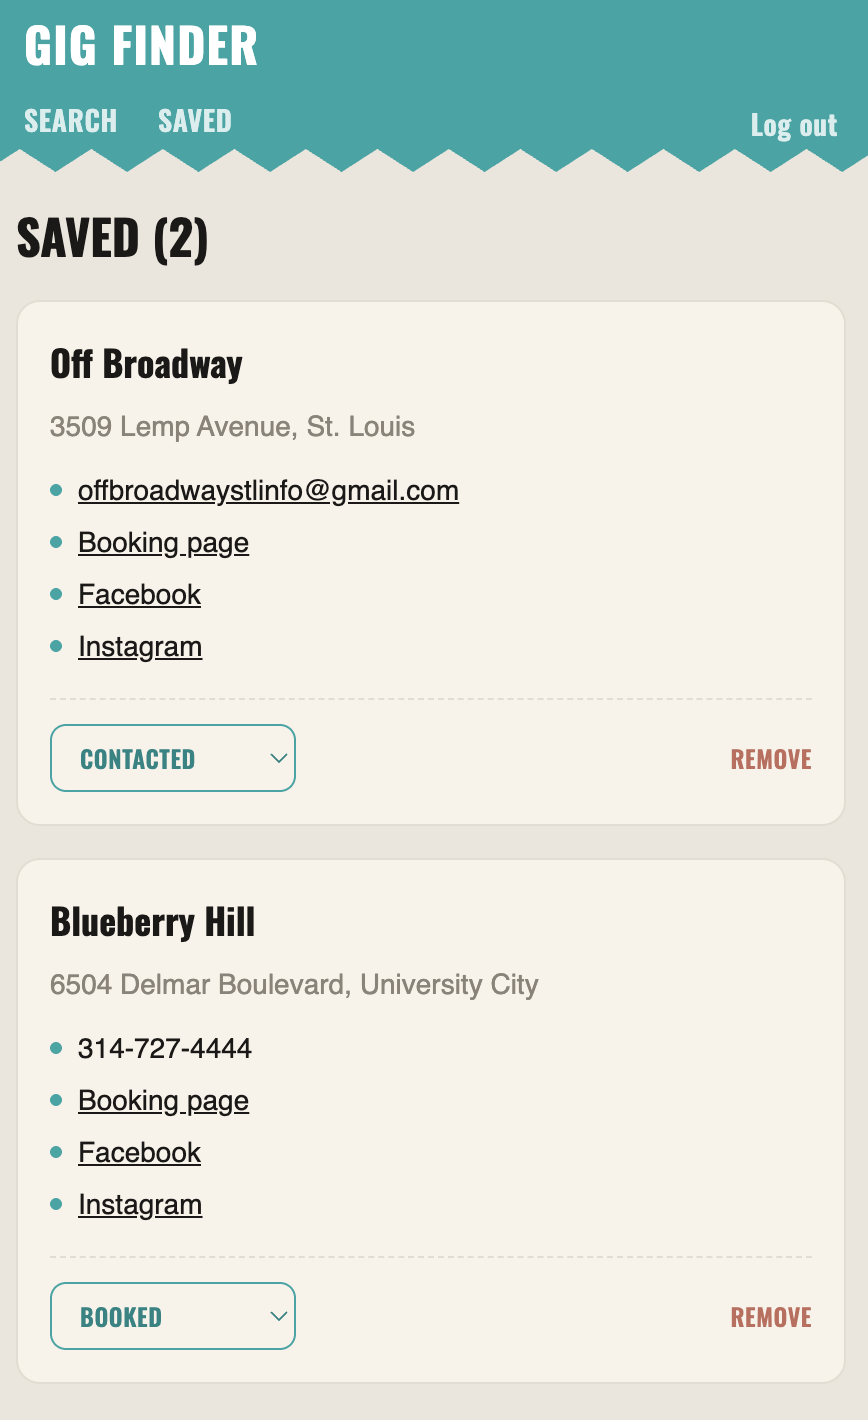
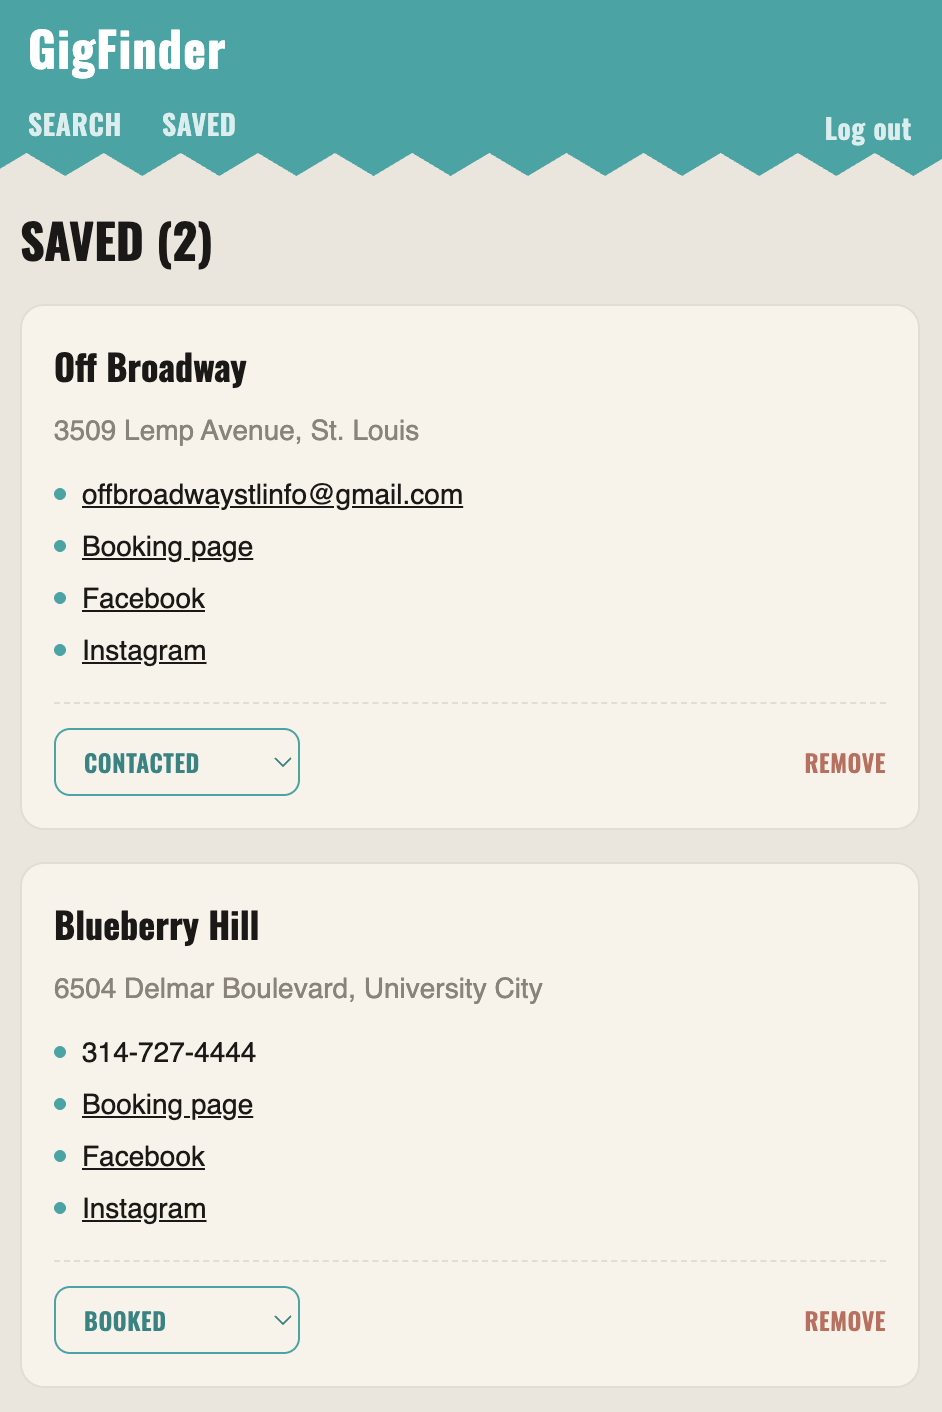
fix formatting on site title and update screenshots

diff --git a/frontend/src/App.tsx b/frontend/src/App.tsx
@@ -1,65 +1,69 @@
-import { Link, Route, Routes } from 'react-router-dom'
-import { useAuth } from './context/AuthContext'
-import LoginPage from './pages/LoginPage'
-import SavedVenuesPage from './pages/SavedVenuesPage'
-import SearchPage from './pages/SearchPage'
-import SignupPage from './pages/SignupPage'
+import { Link, Route, Routes } from 'react-router-dom';
+import { useAuth } from './context/AuthContext';
+import LoginPage from './pages/LoginPage';
+import SavedVenuesPage from './pages/SavedVenuesPage';
+import SearchPage from './pages/SearchPage';
+import SignupPage from './pages/SignupPage';
 
 function Nav() {
-  const { user, signOut } = useAuth()
-  return (
-    <header
-      className="bg-teal px-5 pt-4 pb-3"
-      style={{
-        clipPath:
-          'polygon(0 0,100% 0,100% 88%,96% 100%,92% 88%,88% 100%,84% 88%,80% 100%,76% 88%,72% 100%,68% 88%,64% 100%,60% 88%,56% 100%,52% 88%,48% 100%,44% 88%,40% 100%,36% 88%,32% 100%,28% 88%,24% 100%,20% 88%,16% 100%,12% 88%,8% 100%,4% 88%,0 100%)',
-      }}
-    >
-      <div className="max-w-2xl mx-auto">
-        <div className="flex items-baseline justify-between">
-          <span className="font-display font-bold text-2xl tracking-wide text-white uppercase">
-            Gig Finder
-          </span>
-        </div>
-        <nav className="flex items-center gap-5 mt-3 font-display text-sm font-semibold uppercase tracking-wide">
-          <Link to="/" className="text-white/80 hover:text-white pb-1">
-            Search
-          </Link>
-          <Link to="/saved" className="text-white/80 hover:text-white pb-1">
-            Saved
-          </Link>
-          <div className="ml-auto flex gap-4">
-            {user ? (
-              <button type="button" onClick={signOut} className="text-white/80 hover:text-white">
-                Log out
-              </button>
-            ) : (
-              <>
-                <Link to="/login" className="text-white/80 hover:text-white">
-                  Log in
-                </Link>
-                <Link to="/signup" className="text-white/80 hover:text-white">
-                  Sign up
-                </Link>
-              </>
-            )}
-          </div>
-        </nav>
-      </div>
-    </header>
-  )
+	const { user, signOut } = useAuth();
+	return (
+		<header
+			className='bg-teal px-5 pt-4 pb-3'
+			style={{
+				clipPath:
+					'polygon(0 0,100% 0,100% 88%,96% 100%,92% 88%,88% 100%,84% 88%,80% 100%,76% 88%,72% 100%,68% 88%,64% 100%,60% 88%,56% 100%,52% 88%,48% 100%,44% 88%,40% 100%,36% 88%,32% 100%,28% 88%,24% 100%,20% 88%,16% 100%,12% 88%,8% 100%,4% 88%,0 100%)',
+			}}
+		>
+			<div className='max-w-2xl mx-auto'>
+				<div className='flex items-baseline justify-between'>
+					<span className='font-display font-bold text-2xl tracking-wide text-white'>
+						GigFinder
+					</span>
+				</div>
+				<nav className='flex items-center gap-5 mt-3 font-display text-sm font-semibold uppercase tracking-wide'>
+					<Link to='/' className='text-white/80 hover:text-white pb-1'>
+						Search
+					</Link>
+					<Link to='/saved' className='text-white/80 hover:text-white pb-1'>
+						Saved
+					</Link>
+					<div className='ml-auto flex gap-4'>
+						{user ? (
+							<button
+								type='button'
+								onClick={signOut}
+								className='text-white/80 hover:text-white'
+							>
+								Log out
+							</button>
+						) : (
+							<>
+								<Link to='/login' className='text-white/80 hover:text-white'>
+									Log in
+								</Link>
+								<Link to='/signup' className='text-white/80 hover:text-white'>
+									Sign up
+								</Link>
+							</>
+						)}
+					</div>
+				</nav>
+			</div>
+		</header>
+	);
 }
 
 export default function App() {
-  return (
-    <div className="min-h-screen bg-cream-deep">
-      <Nav />
-      <Routes>
-        <Route path="/" element={<SearchPage />} />
-        <Route path="/login" element={<LoginPage />} />
-        <Route path="/signup" element={<SignupPage />} />
-        <Route path="/saved" element={<SavedVenuesPage />} />
-      </Routes>
-    </div>
-  )
+	return (
+		<div className='min-h-screen bg-cream-deep'>
+			<Nav />
+			<Routes>
+				<Route path='/' element={<SearchPage />} />
+				<Route path='/login' element={<LoginPage />} />
+				<Route path='/signup' element={<SignupPage />} />
+				<Route path='/saved' element={<SavedVenuesPage />} />
+			</Routes>
+		</div>
+	);
 }
